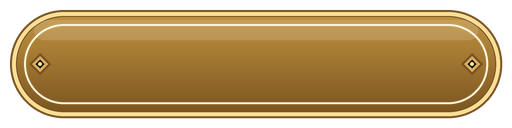
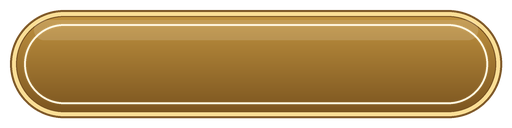
Fix the cropped pill ends and add a 9-slice checker
The pills' SliceCenter (72,40,440,88) left part of the round ends, plus the
end lozenges, in the left/right edge strips. Roblox stretches those strips,
so the ends rendered flat and cropped. The pills are redrawn without
lozenges and re-uploaded, and now slice at their vertical centre row
(72,63,440,65) at SliceScale 0.28, so the curves stay in the corners.

tools/check_slices.py checks every sliced image in assets/ against its source
PNG. The ui-designer instructions now cover side strips (not just the top),
pill slicing, re-uploading, and checking in Studio rather than trusting a
local Pillow simulation, which showed the broken pills as fine.

Changed region(s): [[0.9062, 0.4062, 0.9375, 0.5938], [0.0625, 0.4062, 0.0938, 0.5938]]

diff --git a/tools/check_slices.py b/tools/check_slices.py
@@ -1,0 +1,96 @@
+"""Checks every 9-sliced image in assets/*.rbxmx against its source PNG in art/ui/.
+
+Roblox stretches the four edge strips of a 9-slice along their length. Any
+curve, ornament or gradient that changes along that length gets distorted or
+cut off: a pill whose rounded ends reach into the left and right strips renders
+with flat, cropped ends. So each top/bottom strip must be identical in every
+column, and each left/right strip identical in every row. The centre may hold
+anything uniform enough to stretch.
+
+Run: uv run --with pillow python tools/check_slices.py
+Exits 1 and lists every image/SliceCenter pair that breaks the rule.
+"""
+
+import json
+import re
+import sys
+from pathlib import Path
+
+from PIL import Image
+
+ROOT = Path(__file__).resolve().parent.parent
+ART = ROOT / "art" / "ui"
+TOLERANCE = 6  # max per-channel difference allowed along a strip (antialiasing)
+
+alpha_only = False
+ids = {v: k for k, v in json.loads((ART / "assets.json").read_text()).items()}
+
+
+def strip_ok(im, box, along):
+    """True if every line across the strip matches its first line along `along`."""
+    crop = im.crop(box)
+    if alpha_only:
+        crop = crop.getchannel("A").convert("RGBA")
+    w, h = crop.size
+    px = crop.load()
+    if along == "x":  # top/bottom strip: each column equals column 0
+        return all(
+            max(abs(a - b) for a, b in zip(px[x, y], px[0, y])) <= TOLERANCE
+            for y in range(h) for x in range(w)
+        )
+    return all(  # left/right strip: each row equals row 0
+        max(abs(a - b) for a, b in zip(px[x, y], px[x, 0])) <= TOLERANCE
+        for y in range(h) for x in range(w)
+    )
+
+
+def items(text):
+    for m in re.finditer(r'<Item class="(Image\w+)"[^>]*>\s*<Properties>(.*?)</Properties>', text, re.S):
+        props = m.group(2)
+        if not re.search(r'<token name="ScaleType">1</token>', props):
+            continue
+        name = re.search(r'<string name="Name">(.*?)</string>', props).group(1)
+        image = re.search(r'name="Image">\s*<url>(.*?)</url>', props)
+        rect = re.search(r'name="SliceCenter">(.*?)</Rect2D>', props, re.S)
+        if image and rect:
+            nums = [float(n) for n in re.findall(r'-?[\d.]+', rect.group(1))]
+            yield name, image.group(1), [round(n) for n in nums[:4]]
+
+
+failed = False
+warned = False
+for rbxmx in sorted((ROOT / "assets").glob("*.rbxmx")):
+    seen = set()
+    for name, image, (x0, y0, x1, y1) in items(rbxmx.read_text()):
+        key = (image, x0, y0, x1, y1)
+        if key in seen:
+            continue
+        seen.add(key)
+        file = ids.get(image)
+        if not file:
+            print(f"? {rbxmx.name} {name}: {image} not in art/ui/assets.json")
+            continue
+        im = Image.open(ART / file).convert("RGBA")
+        w, h = im.size
+        label = f"{rbxmx.name} {name}: {file} SliceCenter=({x0},{y0},{x1},{y1})"
+        if not (0 < x0 < x1 < w and 0 < y0 < y1 < h):
+            failed = True
+            print(f"FAIL {label}: needs margins on all sides inside {w}x{h}")
+            continue
+        strips = [((x0, 0, x1, y0), "x", "top"), ((x0, y1, x1, h), "x", "bottom"),
+                  ((0, y0, x0, y1), "y", "left"), ((x1, y0, w, y1), "y", "right")]
+        for alpha_only in (True, False):
+            bad = [side for box, along, side in strips if not strip_ok(im, box, along)]
+            if bad and alpha_only:
+                failed = True
+                print(f"FAIL {label}: the outline changes along the {'/'.join(bad)} strip, "
+                      "so Roblox crops or bends it (keep curves inside the corners)")
+                break
+            if bad:
+                warned = True
+                print(f"warn {label}: colour changes along the {'/'.join(bad)} strip "
+                      "(fine for a gradient; an ornament there will smear)")
+
+if not failed and not warned:
+    print("All 9-slices clean.")
+sys.exit(1 if failed else 0)

diff --git a/art/ui/draw_ui.py b/art/ui/draw_ui.py
@@ -304,9 +304,10 @@ def slot_simple():
 
 
 def pill(name, top, bottom, rim, inner):
-    """A pill button, 512x128. 9-slice with SliceCenter Rect(72, 40, 440, 88):
-    the rounded ends and their lozenges stay in the side slices, and the top and
-    bottom margins keep Roblox's slicer from clipping the art."""
+    """A pill button, 512x128. 9-slice with SliceCenter Rect(72, 63, 440, 65) and
+    SliceScale ~0.28: the rounded ends are the corners, split at the one row
+    where the curve is vertical. Only that row stretches, so nothing ornamental
+    may sit on it (the end lozenges used to, and Roblox cropped the ends flat)."""
     W, H = 512, 128
     img = canvas(W, H)
     m = 10 * SS
@@ -321,8 +322,6 @@ def pill(name, top, bottom, rim, inner):
     gloss = Image.new("RGBA", img.size, (0, 0, 0, 0))
     ImageDraw.Draw(gloss).rounded_rectangle([m + 24 * SS, m + 10 * SS, W * SS - m - 24 * SS, m + 30 * SS], radius=10 * SS, fill=(255, 255, 255, 34))
     img.alpha_composite(gloss)
-    for side in (-1, 1):
-        lozenge(d, W * SS / 2 + side * (W / 2 - 40) * SS, H * SS / 2, 11 * SS, 3 * SS)
     finish(img, name)
 
 

diff --git a/.claude/agents/ui-designer.md b/.claude/agents/ui-designer.md
@@ -75,11 +75,34 @@ already paid for; don't relearn them.
   soft top-light gradient, ink outline, one highlight.
 - Before uploading, compose a preview PNG in the scratchpad (on a mid-grey
   background, at real in-game size) and look at it with Read.
-- 9-slice art must keep every ornament inside the corner slices and only plain,
-  uniform lines along the edges (check: each row of the top edge strip has zero
-  variance). `SliceCenter` needs real top and bottom margins: a centre rect that
-  spans the full height (Y from 0 to H) gets clipped by Roblox. If an image can't
-  slice cleanly, use `ScaleType.Stretch` at its native aspect ratio.
+- 9-slice (this has cropped our pills flat more than once):
+  - Roblox stretches all four edge strips along their length: top/bottom
+    strips stretch sideways, left/right strips stretch up and down. Every curve
+    and ornament must sit entirely inside the four corners. The edge strips may
+    only hold lines that are identical along the stretch: the same in every
+    column for top/bottom, the same in every row for left/right. Checking only
+    the top strip isn't enough; the left/right strips are what broke.
+  - Pills and other stadium shapes: the round ends are the corners. Split them
+    at the one row where the curve is vertical, the exact vertical centre, e.g.
+    `Rect(72, 63, 440, 65)` on a 512x128 pill. Keep that row clear of
+    ornaments: an end lozenge on it smears into a bar. Set `SliceScale` so that
+    (top corner + bottom corner) x scale is about the button's height (0.28 for
+    36-40px from a 128px source). Don't go much smaller, or the ends turn into a
+    rounded rectangle.
+  - `SliceCenter` needs a margin on every side (no 0 or full-size edge), or
+    Roblox clips the art.
+  - Run `uv run --with pillow python tools/check_slices.py` after drawing art or
+    changing a `SliceCenter`. FAIL means the outline changes along an edge
+    strip, so fix the art or the rect. "warn" means a colour gradient along a
+    strip, which is fine unless it's an ornament. Put the intended
+    `SliceCenter` and `SliceScale` in the drawing function's docstring.
+  - A local Pillow simulation of the slice doesn't match Roblox's renderer; it
+    showed these pills as perfect while Roblox cropped them. The real check is in
+    Studio: `screen_capture` with the element visible at its real size, then crop
+    and enlarge that region with Pillow and Read it. Look at the ends and
+    corners closely before calling art done.
+  - If an image can't be sliced cleanly, use `ScaleType.Stretch` at its native
+    aspect ratio.
 - Draw big panels large (1024px) and slice them down (`SliceScale` ~0.26-0.3);
   small sources scaled up look resized.
 
@@ -96,6 +119,12 @@ Then call `mcp__Roblox_Studio__upload_image` with
 `http://127.0.0.1:8765/<file>.png` (several in one call). Record every returned
 `rbxassetid://` in `art/ui/assets.json`. New uploads take a few seconds to
 render; `ContentProvider:PreloadAsync` or the image's `IsLoaded` tells you when.
+
+A redrawn PNG needs a new upload: asset ids are immutable. Swap the old id for
+the new one everywhere (`grep -r` over `assets/`, `src/` and
+`art/ui/assets.json`). Property-only changes like this (Image, SliceCenter,
+SliceScale) can go straight into the `.rbxmx` on disk, and Rojo patches them
+into Studio without duplicating anything.
 
 ## Building in Studio
 
